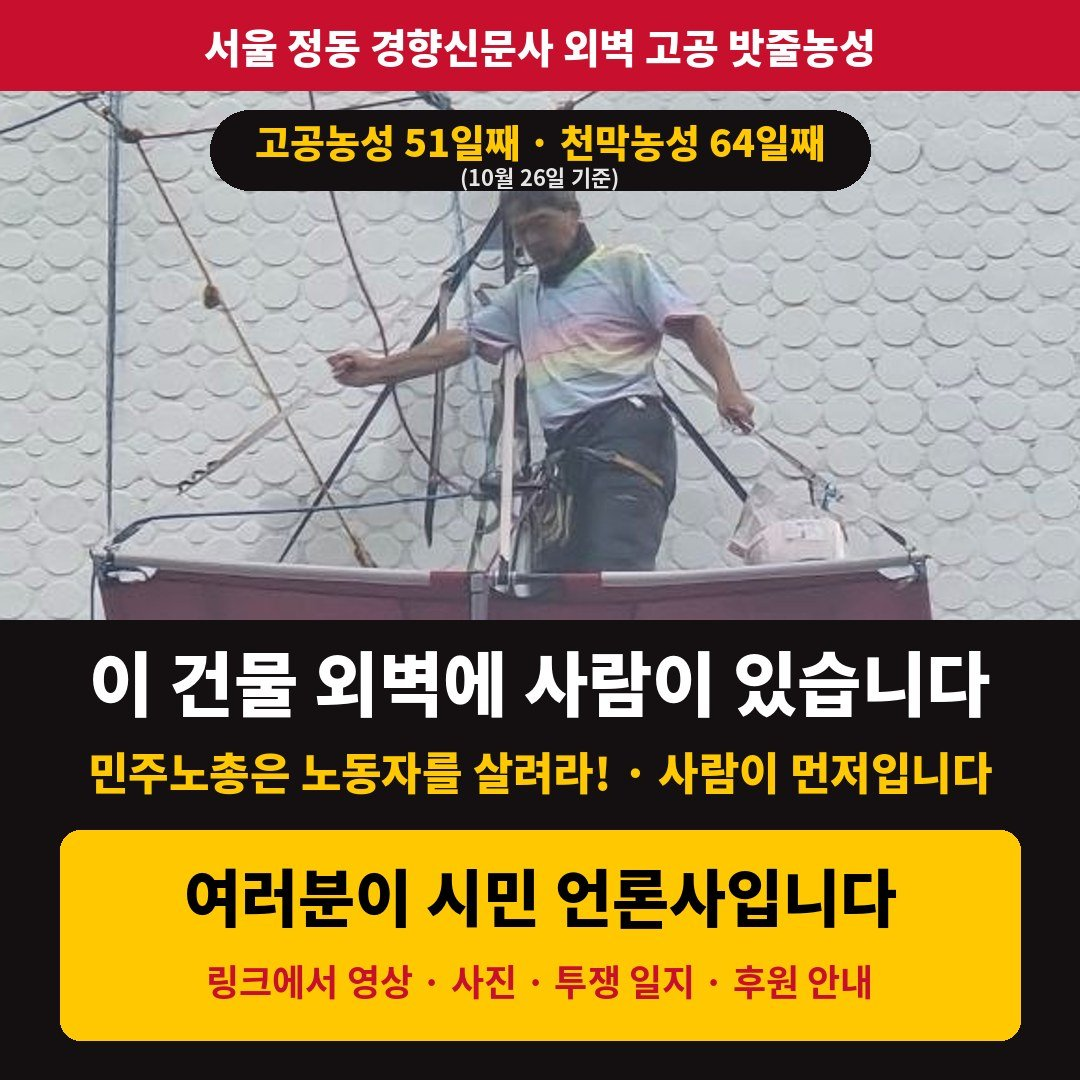
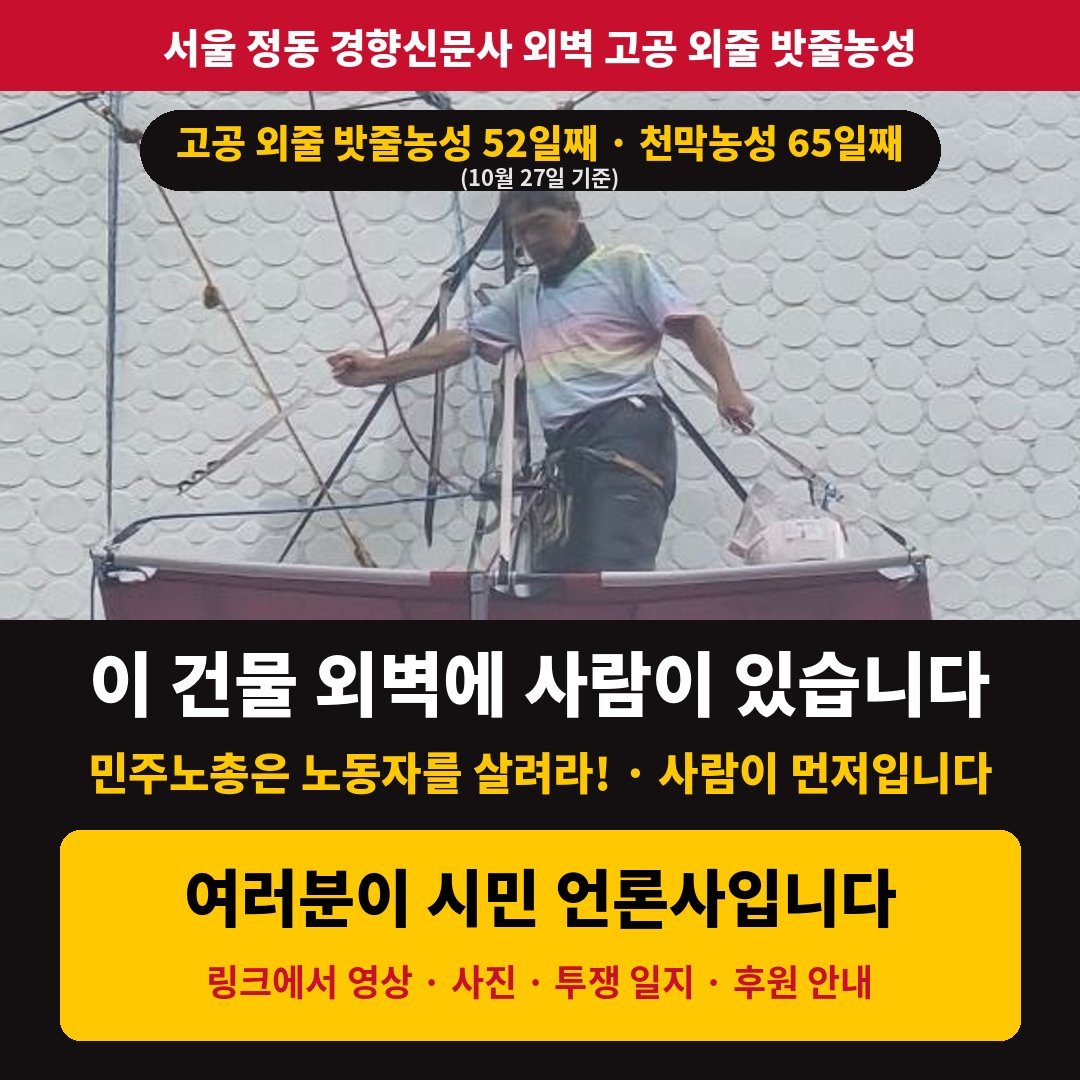
Daily auto-generated share images with today's day counts
Claude-Session: https://claude.ai/code/session_018Wc5rS9siRKfMnYQP82Vyn

diff --git a/tools/gen_share.py b/tools/gen_share.py
@@ -1,0 +1,104 @@
+# 공유 이미지 자동 생성: 오늘(한국 시간) 날짜로 농성 일수를 계산해 미리보기·공유 이미지를 다시 만듭니다.
+# GitHub Actions가 매일 0시(KST)에 실행합니다. 직접 실행: python tools/gen_share.py
+import datetime, glob, os
+from PIL import Image, ImageDraw, ImageFont
+
+ROOT = os.path.dirname(os.path.dirname(os.path.abspath(__file__)))
+SRC = os.path.join(ROOT, 'tools', 'src')
+SKY_START = datetime.date(2026, 9, 6)    # 고공 외줄 밧줄농성 1일차
+TENT_START = datetime.date(2026, 8, 24)  # 천막농성 1일차
+RED = (200, 16, 46); YEL = (255, 200, 0); DARK = (20, 16, 17)
+
+def find_font(bold):
+    pats = ['/usr/share/fonts/**/NotoSansCJK-%s.ttc' % ('Bold' if bold else 'Black'),
+            '/usr/share/fonts/**/NotoSansCJK-Bold.ttc', '/usr/share/fonts/**/NotoSansCJK*.ttc']
+    for p in pats:
+        g = glob.glob(p, recursive=True)
+        if g: return g[0]
+    raise SystemExit('Noto CJK font not found (apt install fonts-noto-cjk)')
+FB, FBo = find_font(False), find_font(True)
+
+today = (datetime.datetime.now(datetime.timezone.utc) + datetime.timedelta(hours=9)).date()
+sky = (today - SKY_START).days + 1
+tent = (today - TENT_START).days + 1
+M, D = today.month, today.day
+
+T = {
+ 'ko': dict(i=1, days=f'고공 외줄 밧줄농성 {sky}일째 · 천막농성 {tent}일째', asof=f'({M}월 {D}일 기준)',
+            h=['이 건물 외벽에', '사람이 있습니다'], sub=['서울 정동 · 경향신문사 본사', '민주노총 본부 건물'],
+            cry=['민주노총은', '노동자를 살려라!'], first='사람이 먼저입니다', press='여러분이 시민 언론사입니다',
+            go='영상 · 사진 · 일지 · 후원 ▶ 링크', zoom='확대'),
+ 'en': dict(i=1, days=f'Wall: day {sky} · Tent: day {tent}', asof=f'(as of {today.strftime("%b")} {D})',
+            h=['A person is living', 'on this wall'], sub=['Kyunghyang Shinmun HQ, Seoul', 'also home to KCTU headquarters'],
+            cry=['KCTU,', 'save the workers!'], first='People come first', press='You are the citizen press',
+            go='Video · Photos · Log ▶ Link', zoom='ZOOM'),
+ 'zh': dict(i=2, days=f'高空单绳静坐第{sky}天 · 帐篷静坐第{tent}天', asof=f'（截至{M}月{D}日）',
+            h=['这栋大楼外墙上', '有人'], sub=['首尔贞洞 · 京乡新闻总部', '民主劳总总部所在大楼'],
+            cry=['民主劳总，', '救救劳动者！'], first='人比什么都重要', press='你们就是公民媒体',
+            go='视频 · 照片 · 日志 ▶ 链接', zoom='放大'),
+}
+
+building = Image.open(os.path.join(SRC, 'building.jpg')).convert('RGB')
+zoomimg = Image.open(os.path.join(SRC, 'zoom.jpg')).convert('RGB')
+
+def landscape(L, t):
+    def f(s, b=False): return ImageFont.truetype(FBo if b else FB, s, index=t['i'])
+    def fit(lines, size, maxw, b=False):
+        if isinstance(lines, str): lines = [lines]
+        while any(f(size, b).getlength(s) > maxw for s in lines): size -= 2
+        return f(size, b)
+    W, H = 1280, 720
+    im = Image.new('RGB', (W, H), DARK); d = ImageDraw.Draw(im)
+    bx0, by0, bx1, by1 = 400, 0, 740, 680
+    b = building.crop((bx0, by0, bx1, by1)); bw = int(H * b.width / b.height); im.paste(b.resize((bw, H)), (0, 0))
+    s = H / (by1 - by0); cx = int((559 - bx0) * s); cy = int((148 - by0) * s); r = 38
+    z = zoomimg.crop((280, 90, 800, 850)); zw = int(H * z.width / z.height); zx = bw + 18; im.paste(z.resize((zw, H)), (zx, 0))
+    d.line((cx + r * .7, cy - r * .7, zx, 4), fill=YEL, width=6); d.line((cx + r * .7, cy + r * .7, zx, H - 4), fill=YEL, width=6)
+    d.ellipse((cx - r, cy - r, cx + r, cy + r), outline=YEL, width=8); d.rectangle((zx, 0, zx + zw - 1, H - 1), outline=YEL, width=6)
+    d.rounded_rectangle((zx + 16, 16, zx + 170, 62), radius=10, fill=YEL)
+    d.text((zx + 93, 39), t['zoom'], font=fit(t['zoom'], 28, 140), fill='black', anchor='mm')
+    x = zx + zw + 28; mw = W - x - 30
+    d.rounded_rectangle((x, 30, x + mw, 122), radius=10, fill=RED)
+    d.text((x + mw // 2, 62), t['days'], font=fit(t['days'], 30, mw - 20), fill='white', anchor='mm')
+    d.text((x + mw // 2, 100), t['asof'], font=f(22, True), fill=(255, 225, 225), anchor='mm')
+    y = 150; hf = fit(t['h'], 54, mw)
+    for s_ in t['h']: d.text((x, y), s_, font=hf, fill='white'); y += int(hf.size * 1.22)
+    sf = fit(t['sub'], 26, mw, True)
+    for s_ in t['sub']: d.text((x, y + 4), s_, font=sf, fill=(220, 210, 210)); y += int(sf.size * 1.4)
+    y += 14; cf = fit(t['cry'], 40, mw)
+    for s_ in t['cry']: d.text((x, y), s_, font=cf, fill=YEL); y += int(cf.size * 1.25)
+    y += 10; ff = fit(t['first'], 34, mw)
+    d.rounded_rectangle((x, y + 2, x + mw, y + 2 + int(ff.size * 1.5)), radius=10, outline=YEL, width=3)
+    d.text((x + mw // 2, y + 2 + int(ff.size * .75)), t['first'], font=ff, fill='white', anchor='mm'); y += int(ff.size * 1.5) + 16
+    d.rounded_rectangle((x, y, x + mw, H - 30), radius=14, fill=YEL); mid = (y + H - 30) // 2
+    d.text((x + mw // 2, mid - 20), t['press'], font=fit(t['press'], 38, mw - 24), fill='black', anchor='mm')
+    d.text((x + mw // 2, mid + 26), t['go'], font=fit(t['go'], 24, mw - 24, True), fill=RED, anchor='mm')
+    return im
+
+def square(t):
+    def f(s, b=False): return ImageFont.truetype(FBo if b else FB, s, index=1)
+    def fit(s, size, maxw, b=False):
+        while f(size, b).getlength(s) > maxw: size -= 2
+        return f(size, b)
+    S = 1080; sq = Image.new('RGB', (S, S), DARK); d = ImageDraw.Draw(sq)
+    ph = zoomimg.crop((250, 60, 830, 900))
+    p2 = ph.resize((S, int(S * ph.height / ph.width))).crop((0, 80, S, 700)); sq.paste(p2, (0, 0))
+    d.rectangle((0, 0, S, 90), fill=RED)
+    s = '서울 정동 경향신문사 외벽 고공 외줄 밧줄농성'; d.text((S // 2, 45), s, font=fit(s, 40, S - 60), fill='white', anchor='mm')
+    d.rounded_rectangle((S // 2 - 400, 110, S // 2 + 400, 190), radius=40, fill=DARK)
+    d.text((S // 2, 140), t['days'], font=fit(t['days'], 38, 760), fill=YEL, anchor='mm')
+    d.text((S // 2, 176), t['asof'], font=f(22, True), fill=(230, 230, 230), anchor='mm')
+    y = 640
+    s = '이 건물 외벽에 사람이 있습니다'; d.text((S // 2, y + 40), s, font=fit(s, 70, S - 80), fill='white', anchor='mm')
+    s = '민주노총은 노동자를 살려라! · 사람이 먼저입니다'; d.text((S // 2, y + 130), s, font=fit(s, 44, S - 80), fill=YEL, anchor='mm')
+    d.rounded_rectangle((60, y + 190, S - 60, y + 400), radius=20, fill=YEL)
+    s = '여러분이 시민 언론사입니다'; d.text((S // 2, y + 255), s, font=fit(s, 62, S - 200), fill='black', anchor='mm')
+    s = '링크에서 영상 · 사진 · 투쟁 일지 · 후원 안내'; d.text((S // 2, y + 340), s, font=fit(s, 36, S - 200, True), fill=RED, anchor='mm')
+    return sq
+
+for L, t in T.items():
+    im = landscape(L, t)
+    im.save(os.path.join(ROOT, f'share_{L}.jpg'), quality=88)
+    if L == 'ko': im.save(os.path.join(ROOT, 'share.jpg'), quality=88)
+square(T['ko']).save(os.path.join(ROOT, 'share_sq.jpg'), quality=85)
+print(f'{today}: 고공 {sky}일째 · 천막 {tent}일째 이미지 생성 완료')
